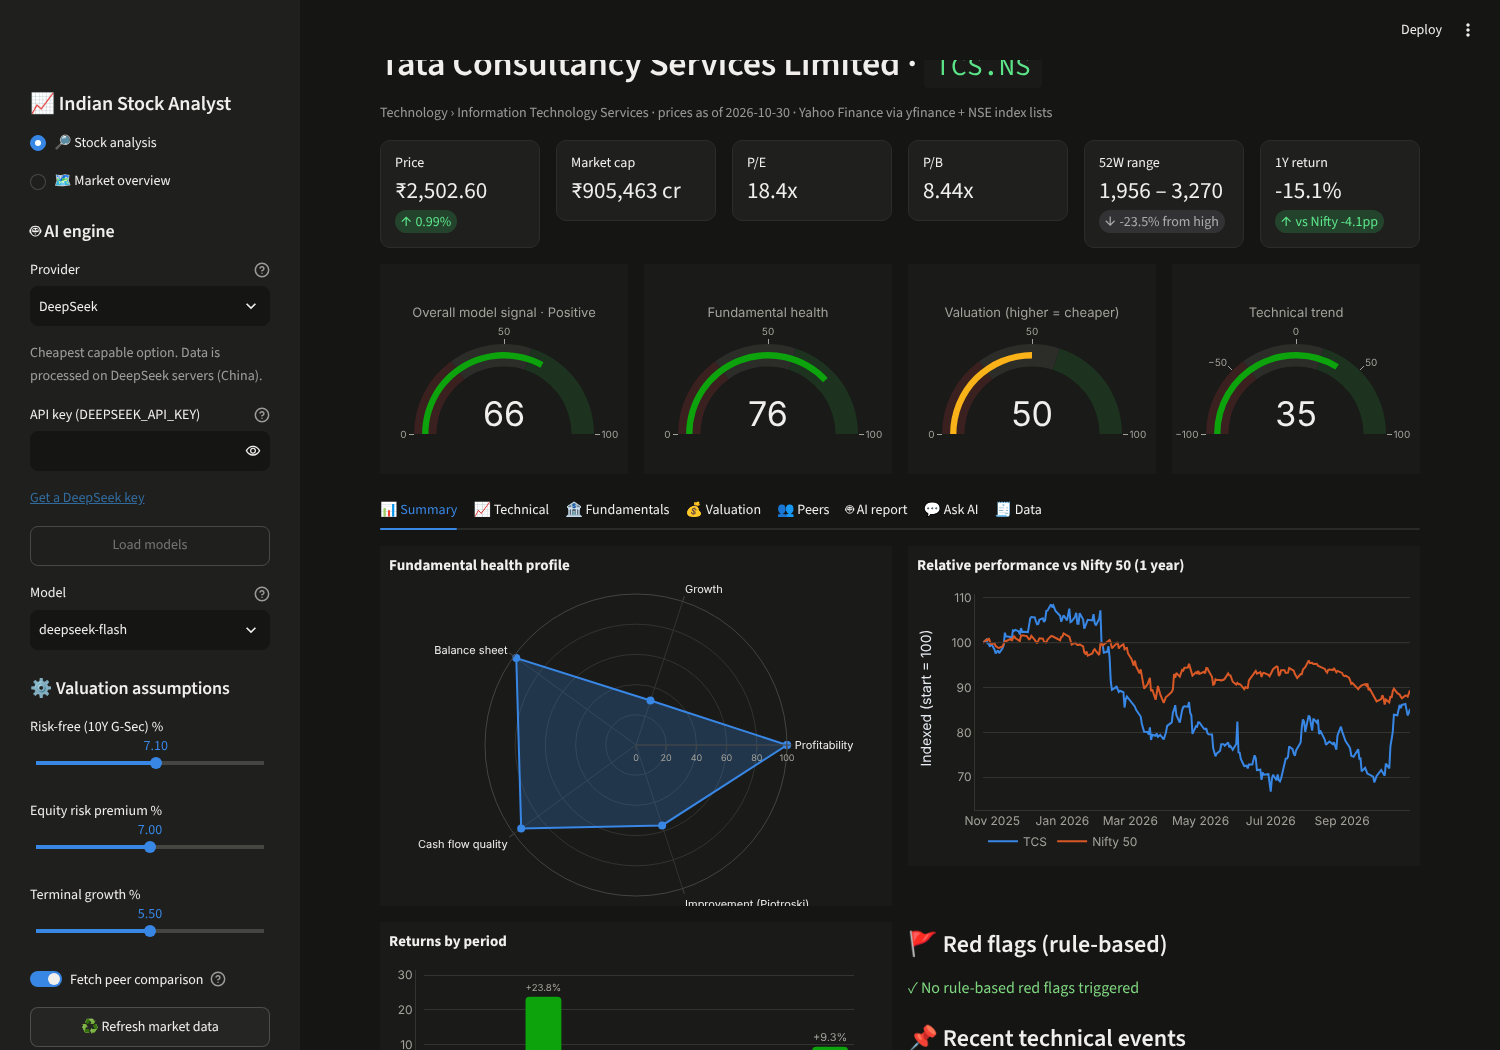
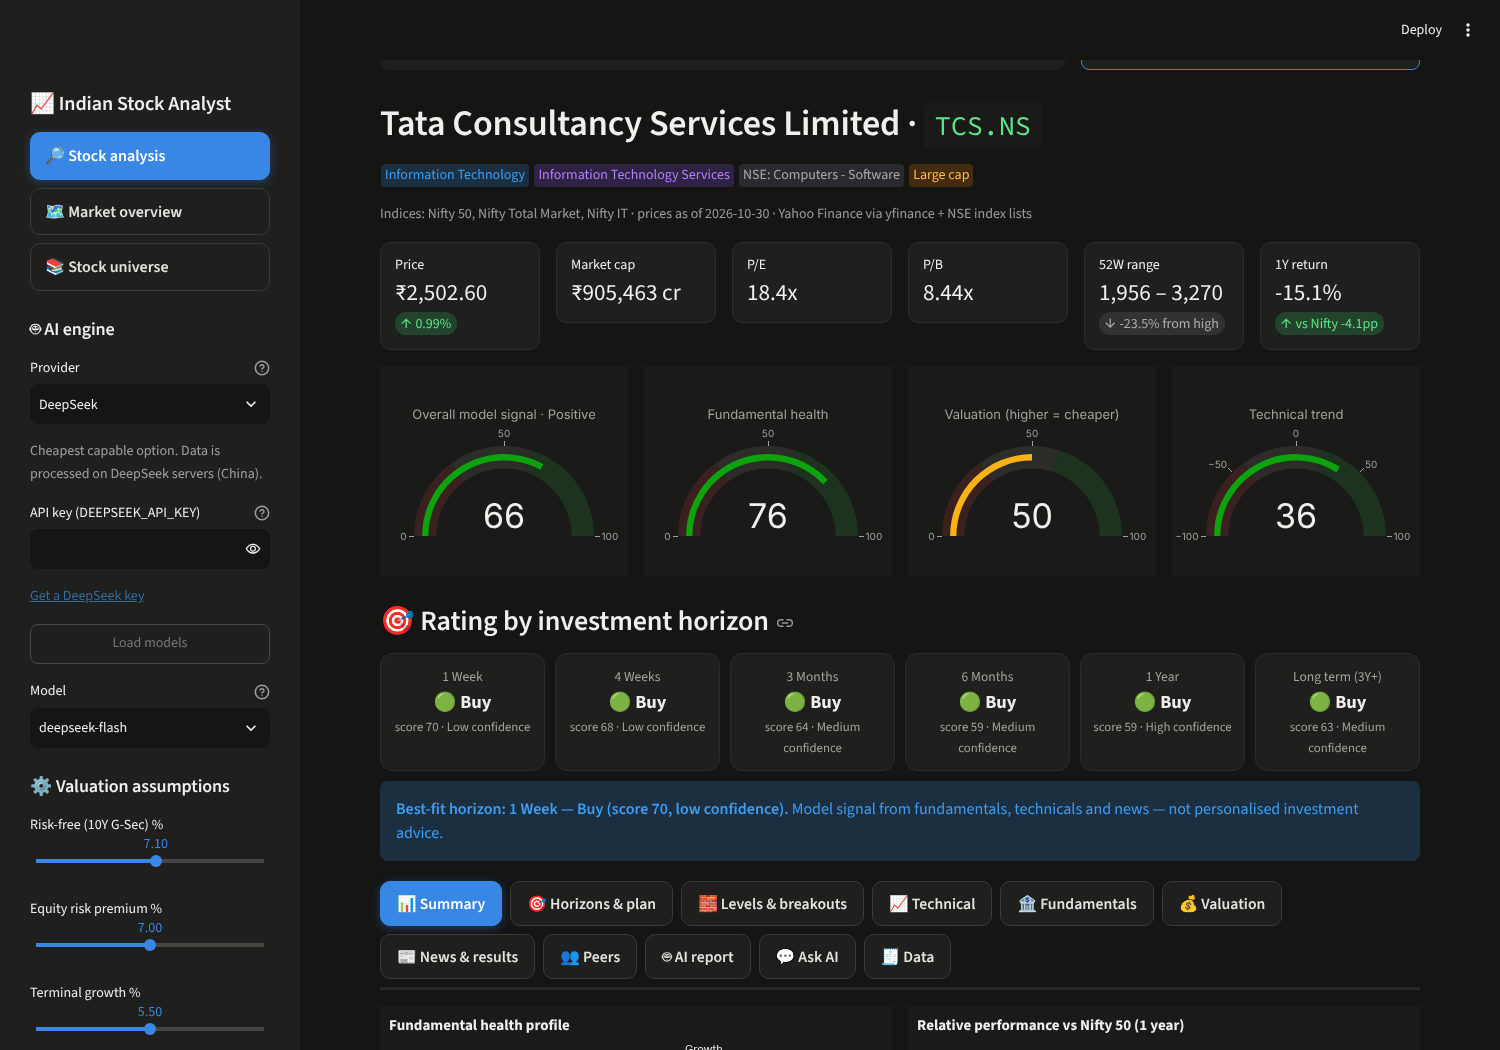
Refresh all README screenshots (button navigation, live data)
Also: escape $ and [ ] in news/filing text so headlines with US$ don't
render as LaTeX maths; drop fiscal years Yahoo returns without an income
statement (empty FY bars on fundamentals charts)

Claude-Session: https://claude.ai/code/session_01Qnxi4u2TKggGUrAar3c556

diff --git a/app.py b/app.py
@@ -136,8 +136,14 @@ def cached_pack(symbol: str, rf: float, erp: float, tg: float, with_peers: bool,
     return build_fact_pack(symbol, settings, with_peers=with_peers, sd=sd, growth_override=g_override)
 
 
+def esc(text) -> str:
+    """Make external/AI text safe for st.markdown: '$...$' would otherwise render as LaTeX maths,
+    and square brackets in headlines would break [link](url) syntax."""
+    return str(text).replace("\\", "\\\\").replace("$", "\\$").replace("[", "(").replace("]", ")")
+
+
 def tag_badges(text: str) -> str:
-    text = str(text)
+    text = str(text).replace("$", "\\$")
     text = text.replace("[DATA]", ":green-badge[DATA]").replace("[INFERENCE]", ":blue-badge[INFERENCE]")
     return text.replace("[ASSUMPTION]", ":orange-badge[ASSUMPTION]")
 
@@ -798,19 +804,19 @@ def stock_analysis() -> None:
             if nb.get("attention_items"):
                 st.markdown("#### ⚠ Filings that deserve attention")
                 for a in nb["attention_items"]:
-                    st.markdown(f"- `{a['date'][:10]}` **{', '.join(a['tags'])}** — {a['text'][:220]}" + (f" [PDF]({a['link']})" if a.get("link") else ""))
+                    st.markdown(f"- `{a['date'][:10]}` **{', '.join(a['tags'])}** — {esc(a['text'][:220])}" + (f" [PDF]({a['link']})" if a.get("link") else ""))
             c1, c2 = st.columns(2)
             with c1:
                 st.markdown("#### 🏛 Exchange announcements (NSE)")
                 tags_all = sorted({t for a in nb.get("announcements", []) for t in a["tags"]})
                 pick = st.multiselect("Filter by type", tags_all, default=[t for t in tags_all if t not in ("Other", "Routine compliance")], key=f"ann_{symbol}")
                 for a in [a for a in nb.get("announcements", []) if set(a["tags"]) & set(pick)][:25]:
-                    st.markdown(f"- `{a['date'][:10]}` *{', '.join(a['tags'])}* — {a['text'][:200]}" + (f" [PDF]({a['link']})" if a.get("link") else ""))
+                    st.markdown(f"- `{a['date'][:10]}` *{', '.join(a['tags'])}* — {esc(a['text'][:200])}" + (f" [PDF]({a['link']})" if a.get("link") else ""))
             with c2:
                 st.markdown("#### 📰 Press headlines (Google News, India)")
                 for n in nb.get("news", [])[:20]:
                     t_icon = "🟢" if n["tone"] > 0 else "🔴" if n["tone"] < 0 else "⚪"
-                    st.markdown(f"- {t_icon} `{n['date']}` [{n['title']}]({n['link']}) — *{n['source']}*")
+                    st.markdown(f"- {t_icon} `{n['date']}` [{esc(n['title'])}]({n['link']}) — *{esc(n['source'])}*")
                 st.caption("Tone dots are a rough keyword count. Headlines from aggregators often disagree on numbers — trust exchange filings first.")
             c1, c2 = st.columns(2)
             with c1:
@@ -888,7 +894,7 @@ def stock_analysis() -> None:
         if sd.news:
             st.markdown("#### Recent headlines (Yahoo)")
             for n in sd.news[:8]:
-                st.markdown(f"- [{n['title']}]({n['url']}) — {n['publisher']} {n['date']}" if n.get("url") else f"- {n['title']}")
+                st.markdown(f"- [{esc(n['title'])}]({n['url']}) — {esc(n['publisher'])} {n['date']}" if n.get("url") else f"- {esc(n['title'])}")
 
 
 if view == VIEWS[0]:

diff --git a/isa/fundamentals.py b/isa/fundamentals.py
@@ -139,6 +139,8 @@ def annual_table(sd: StockData) -> pd.DataFrame:
     t["Inventory days"] = 365 * t["Inventory"] / t["Revenue"]
     t["Payout %"] = 100 * t["Dividends"] / t["Net profit"].where(t["Net profit"] > 0)
     t.index = [f"FY{str(d.year + (1 if d.month > 3 else 0))[-2:]}" for d in idx]
+    # Yahoo sometimes has an extra balance-sheet year with no income statement: drop such empty years
+    t = t[t["Revenue"].notna() | t["Net profit"].notna()]
     return t.loc[:, t.notna().any()]
 
 

diff --git a/README.md b/README.md
@@ -43,7 +43,7 @@ powered by the same engine.
 | **News & results** | **Stock universe** | |
 | ![](docs/screenshots/news_results.png) | ![](docs/screenshots/stock_universe.png) | |
 
-*Screenshots use live Yahoo data from 1 Nov 2026 and are illustrations, not views on any stock.*
+*Screenshots use live data (Yahoo Finance, NSE, Google News) from 2 Nov 2026 and are illustrations, not views on any stock.*
 
 ### About the ratings — read this once
 - They are a **transparent model signal**, not personalised advice. Every rating shows its inputs, weights and
